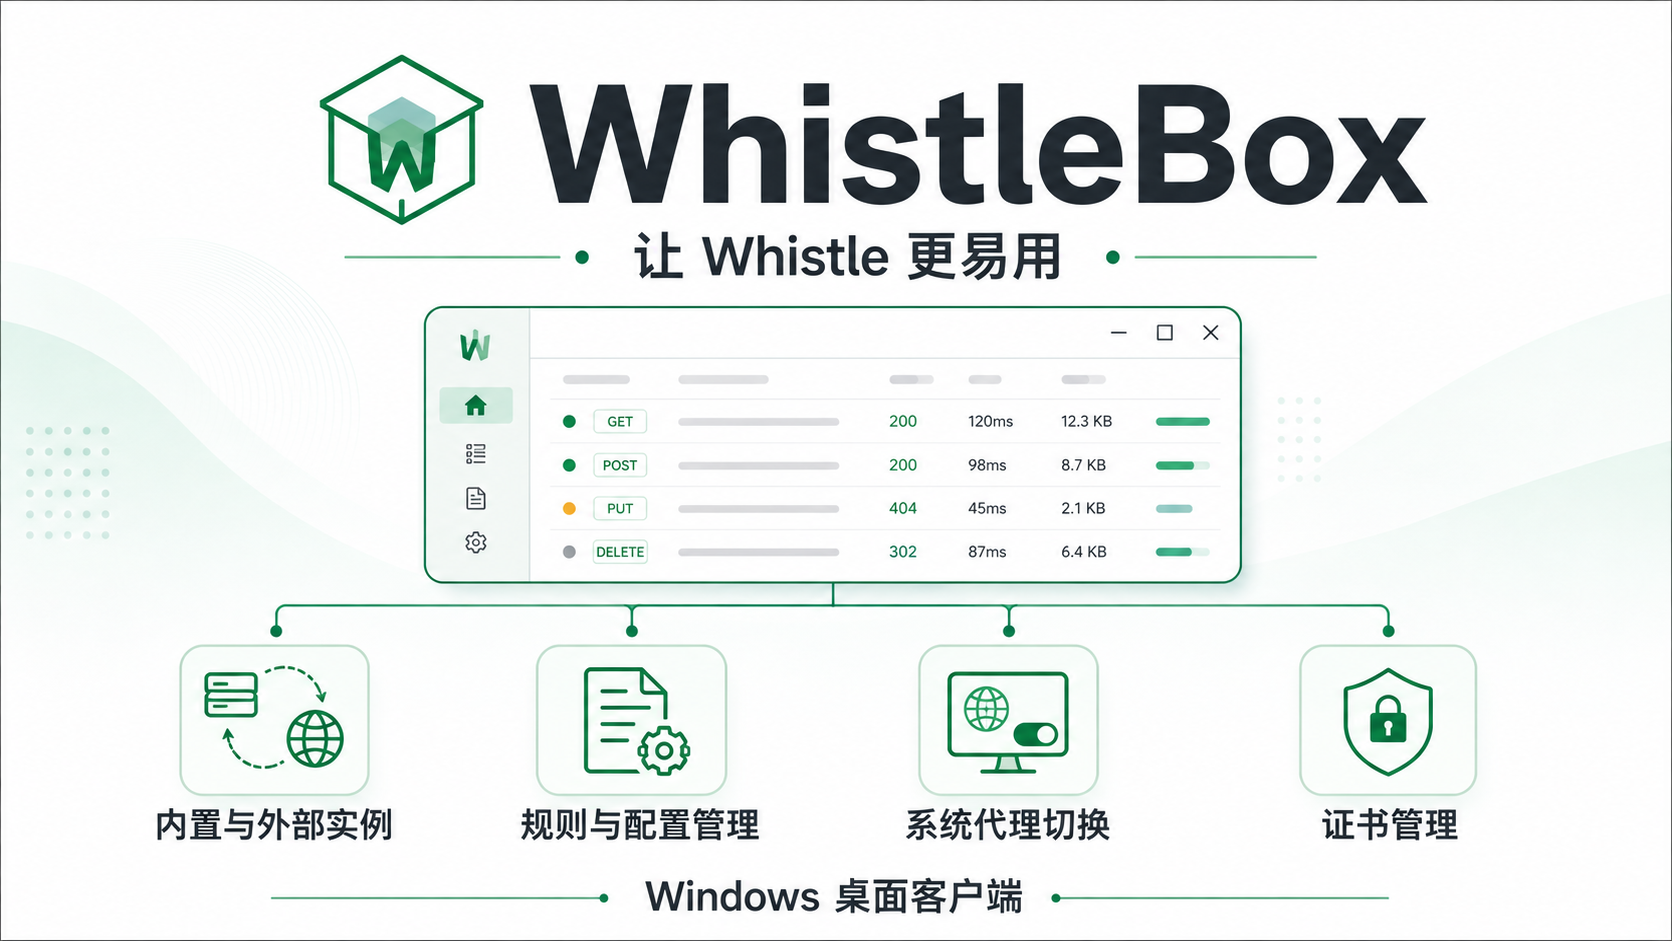
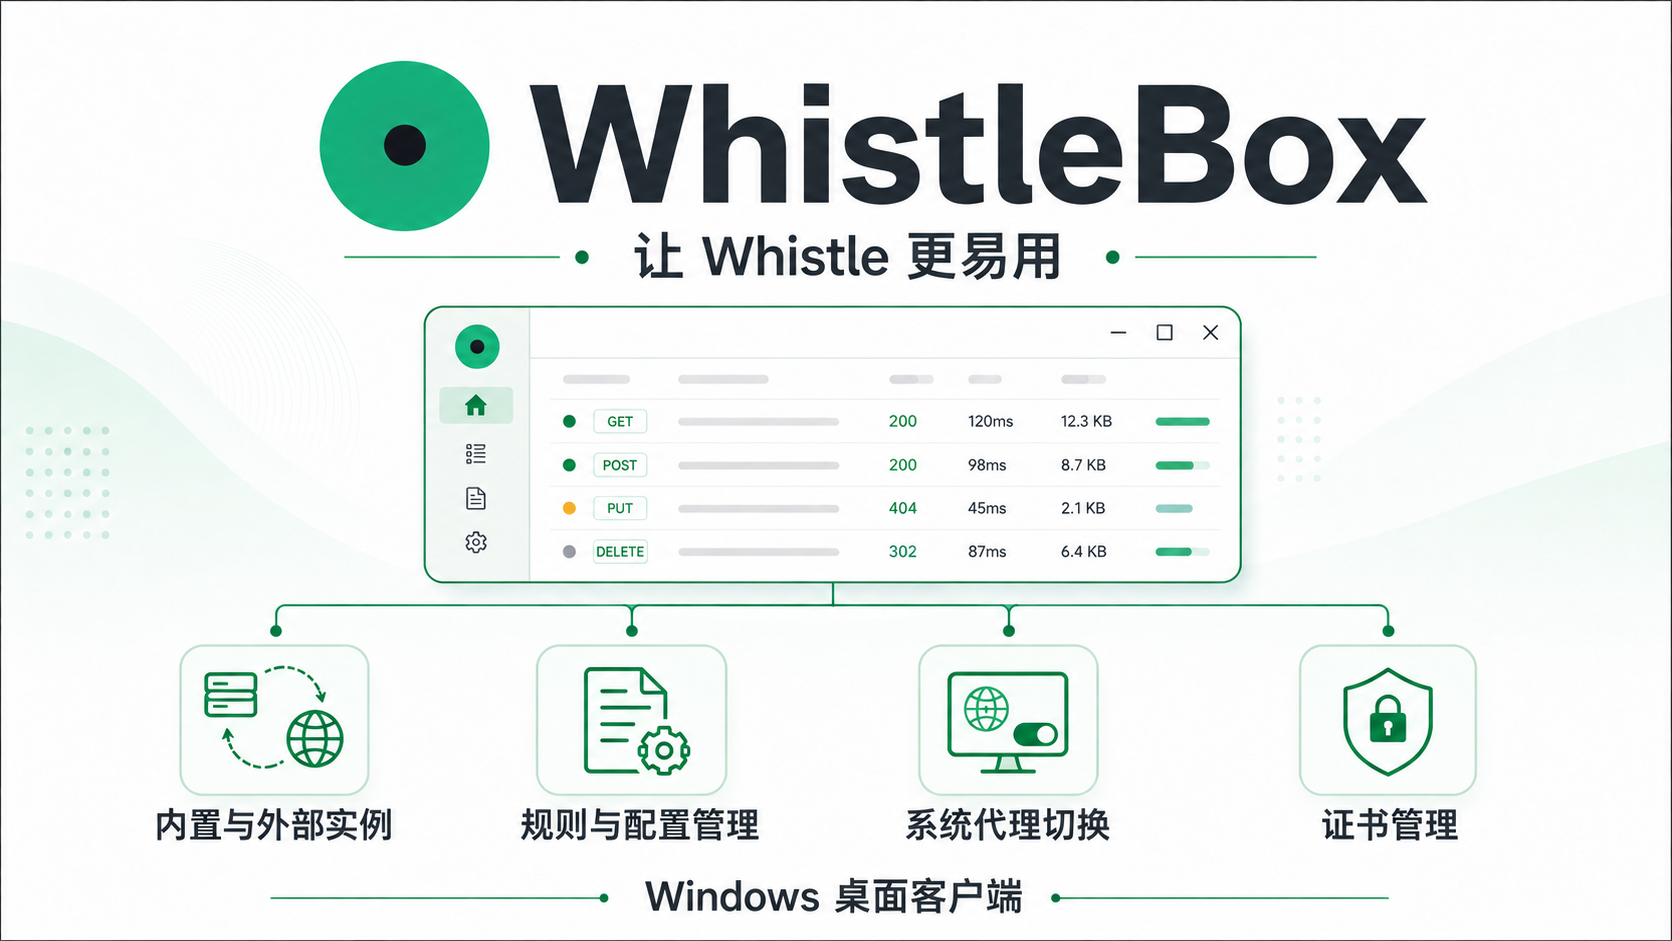
fix(overview): 替换介绍图标志并修正测试路径
- 依据现有应用图标替换介绍图中的两处生成标志
- 记录图片修订提示，使用原始字符串修复注册表路径转义

diff --git a/docs/assets/README.md b/docs/assets/README.md
@@ -3,3 +3,5 @@
 文件：`whistlebox-overview.png`。使用内置 imagegen 工具生成，作为功能示意图，不代表真实界面截图。
 
 生成提示词：横向中文开源项目介绍图，白色与浅薄荷背景、深色清晰字体、克制的绿色线条。标题 WhistleBox，副标题“让 Whistle 更易用”。四项功能分别为“内置与外部实例”“规则与配置管理”“系统代理切换”“证书管理”，底部标注“Windows 桌面客户端”。使用桌面窗口和网络请求的抽象示意，保持文字易读，不添加版本号、认证声明或水印。
+
+修订提示：以 src-tauri/icons/128x128@2x.png 为品牌参考，将标题旁及示意窗口内的两个 W 图标替换为现有绿色圆盘、深色圆心标志，保留其他文字与布局。
